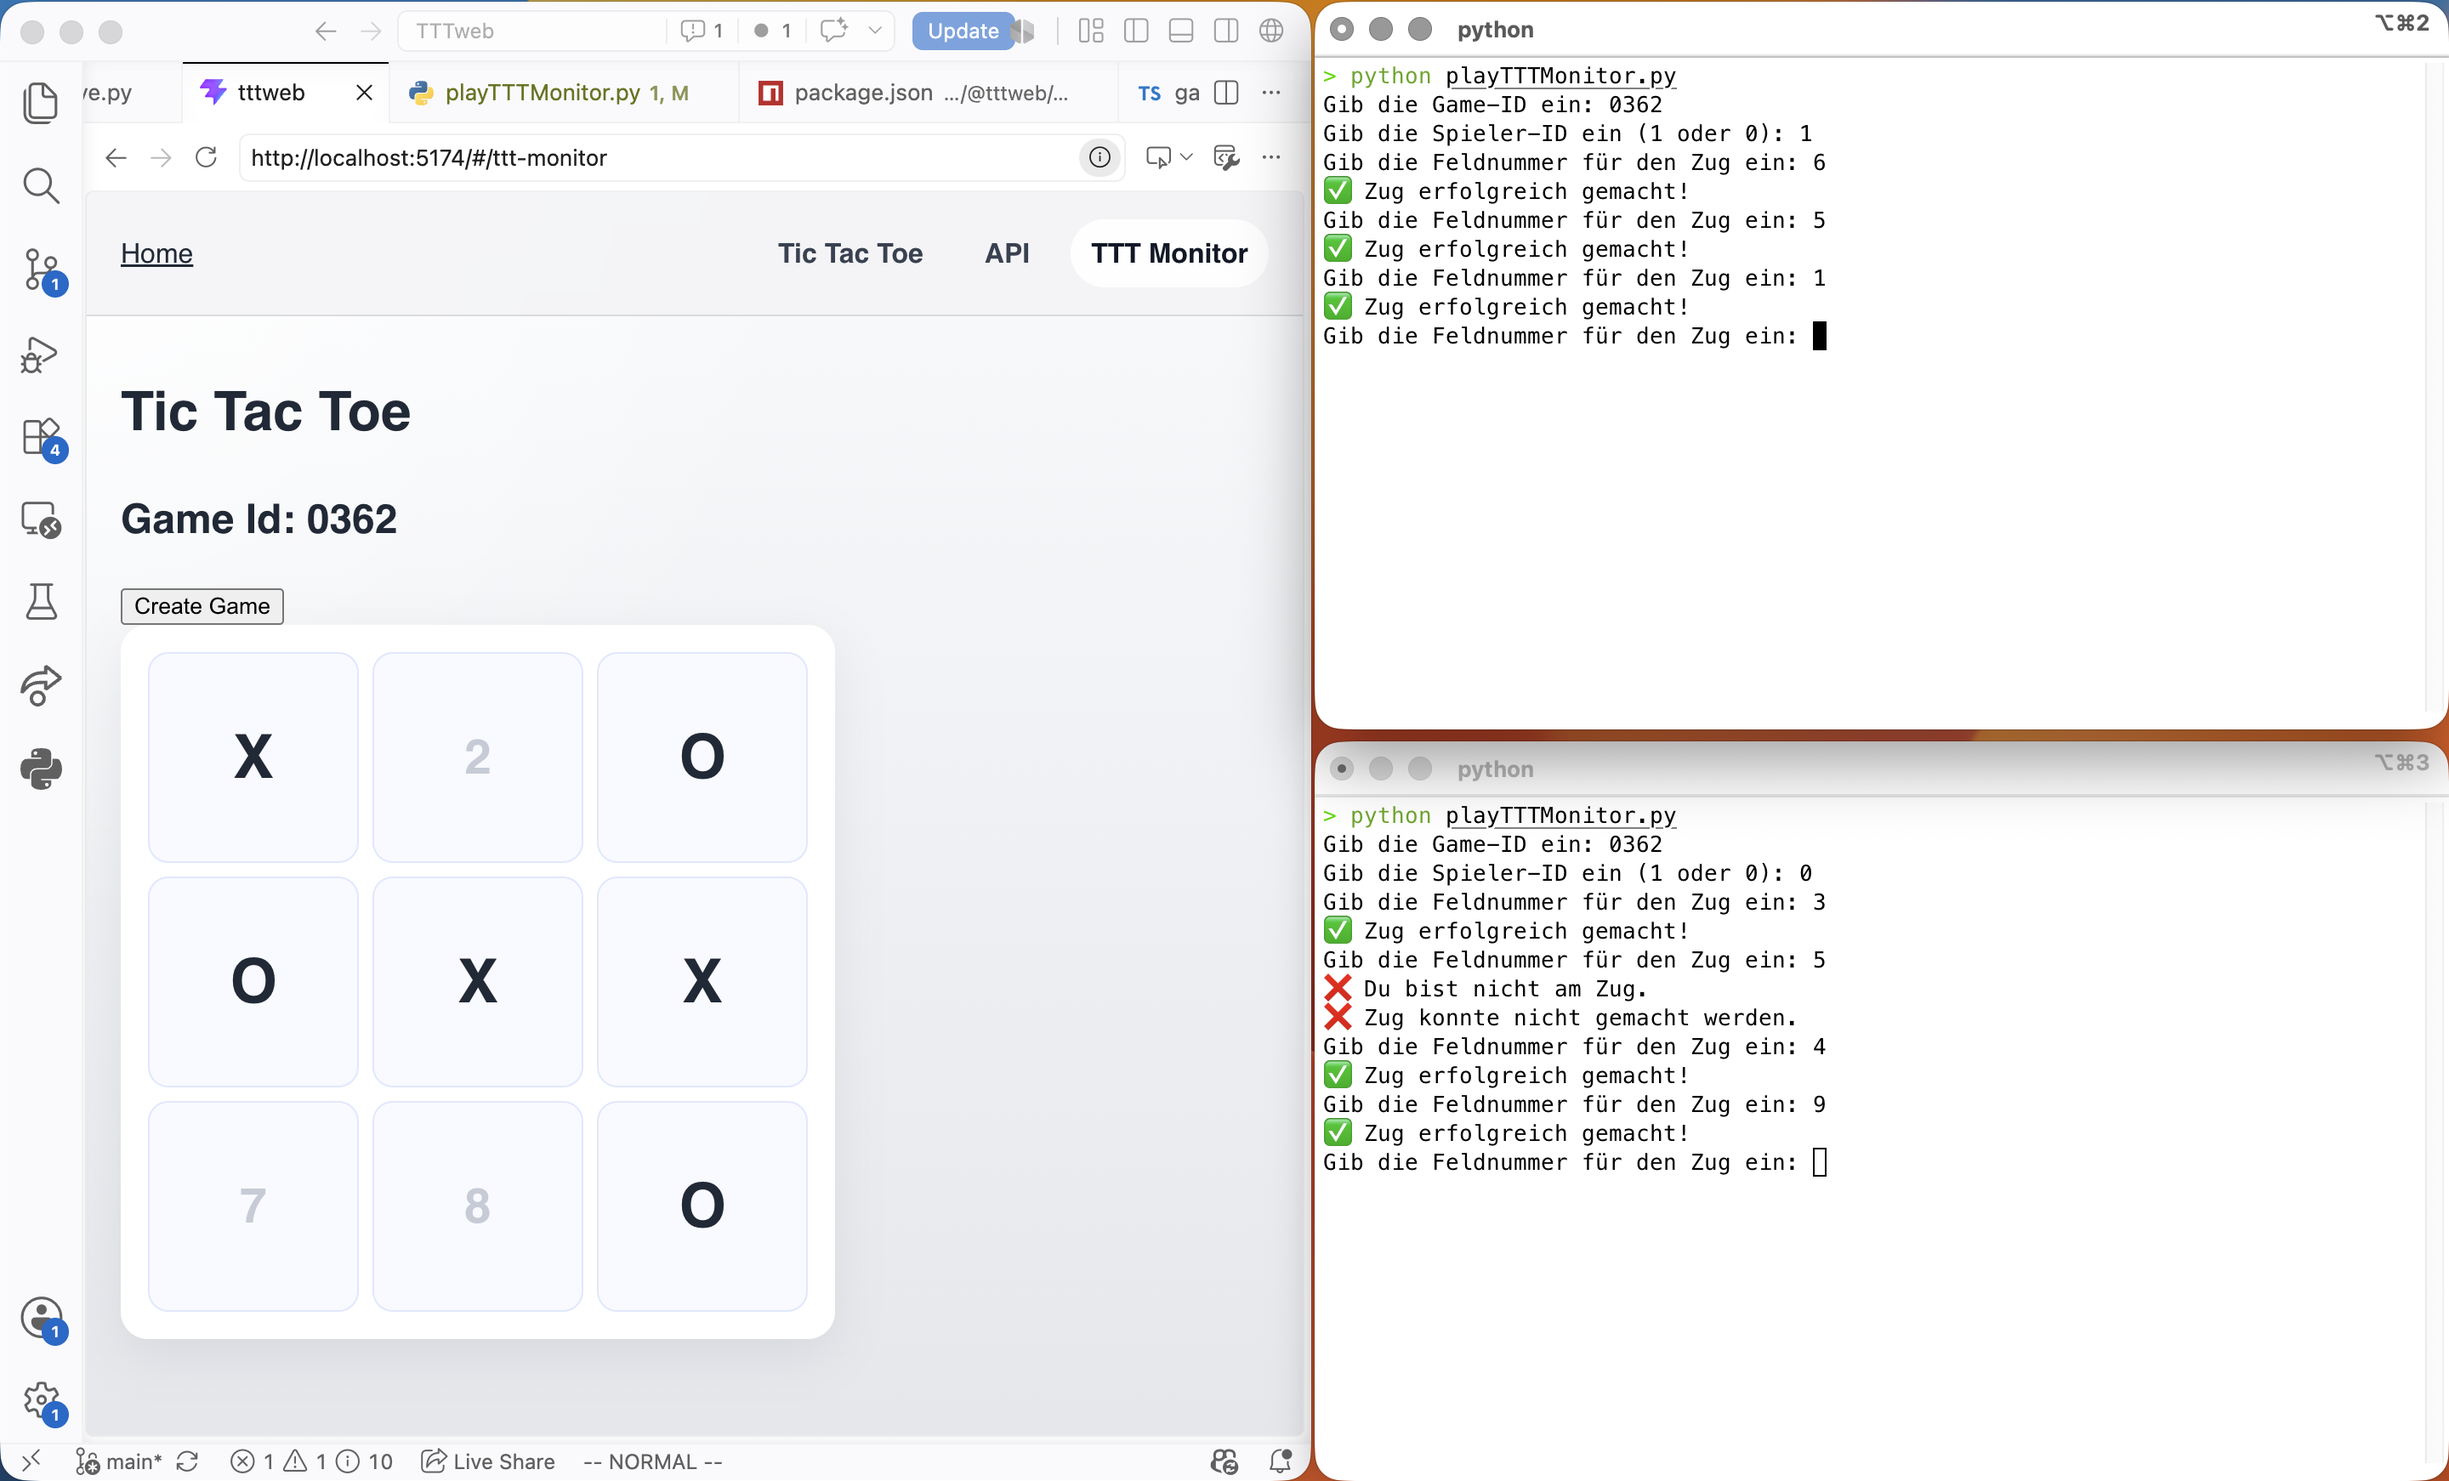
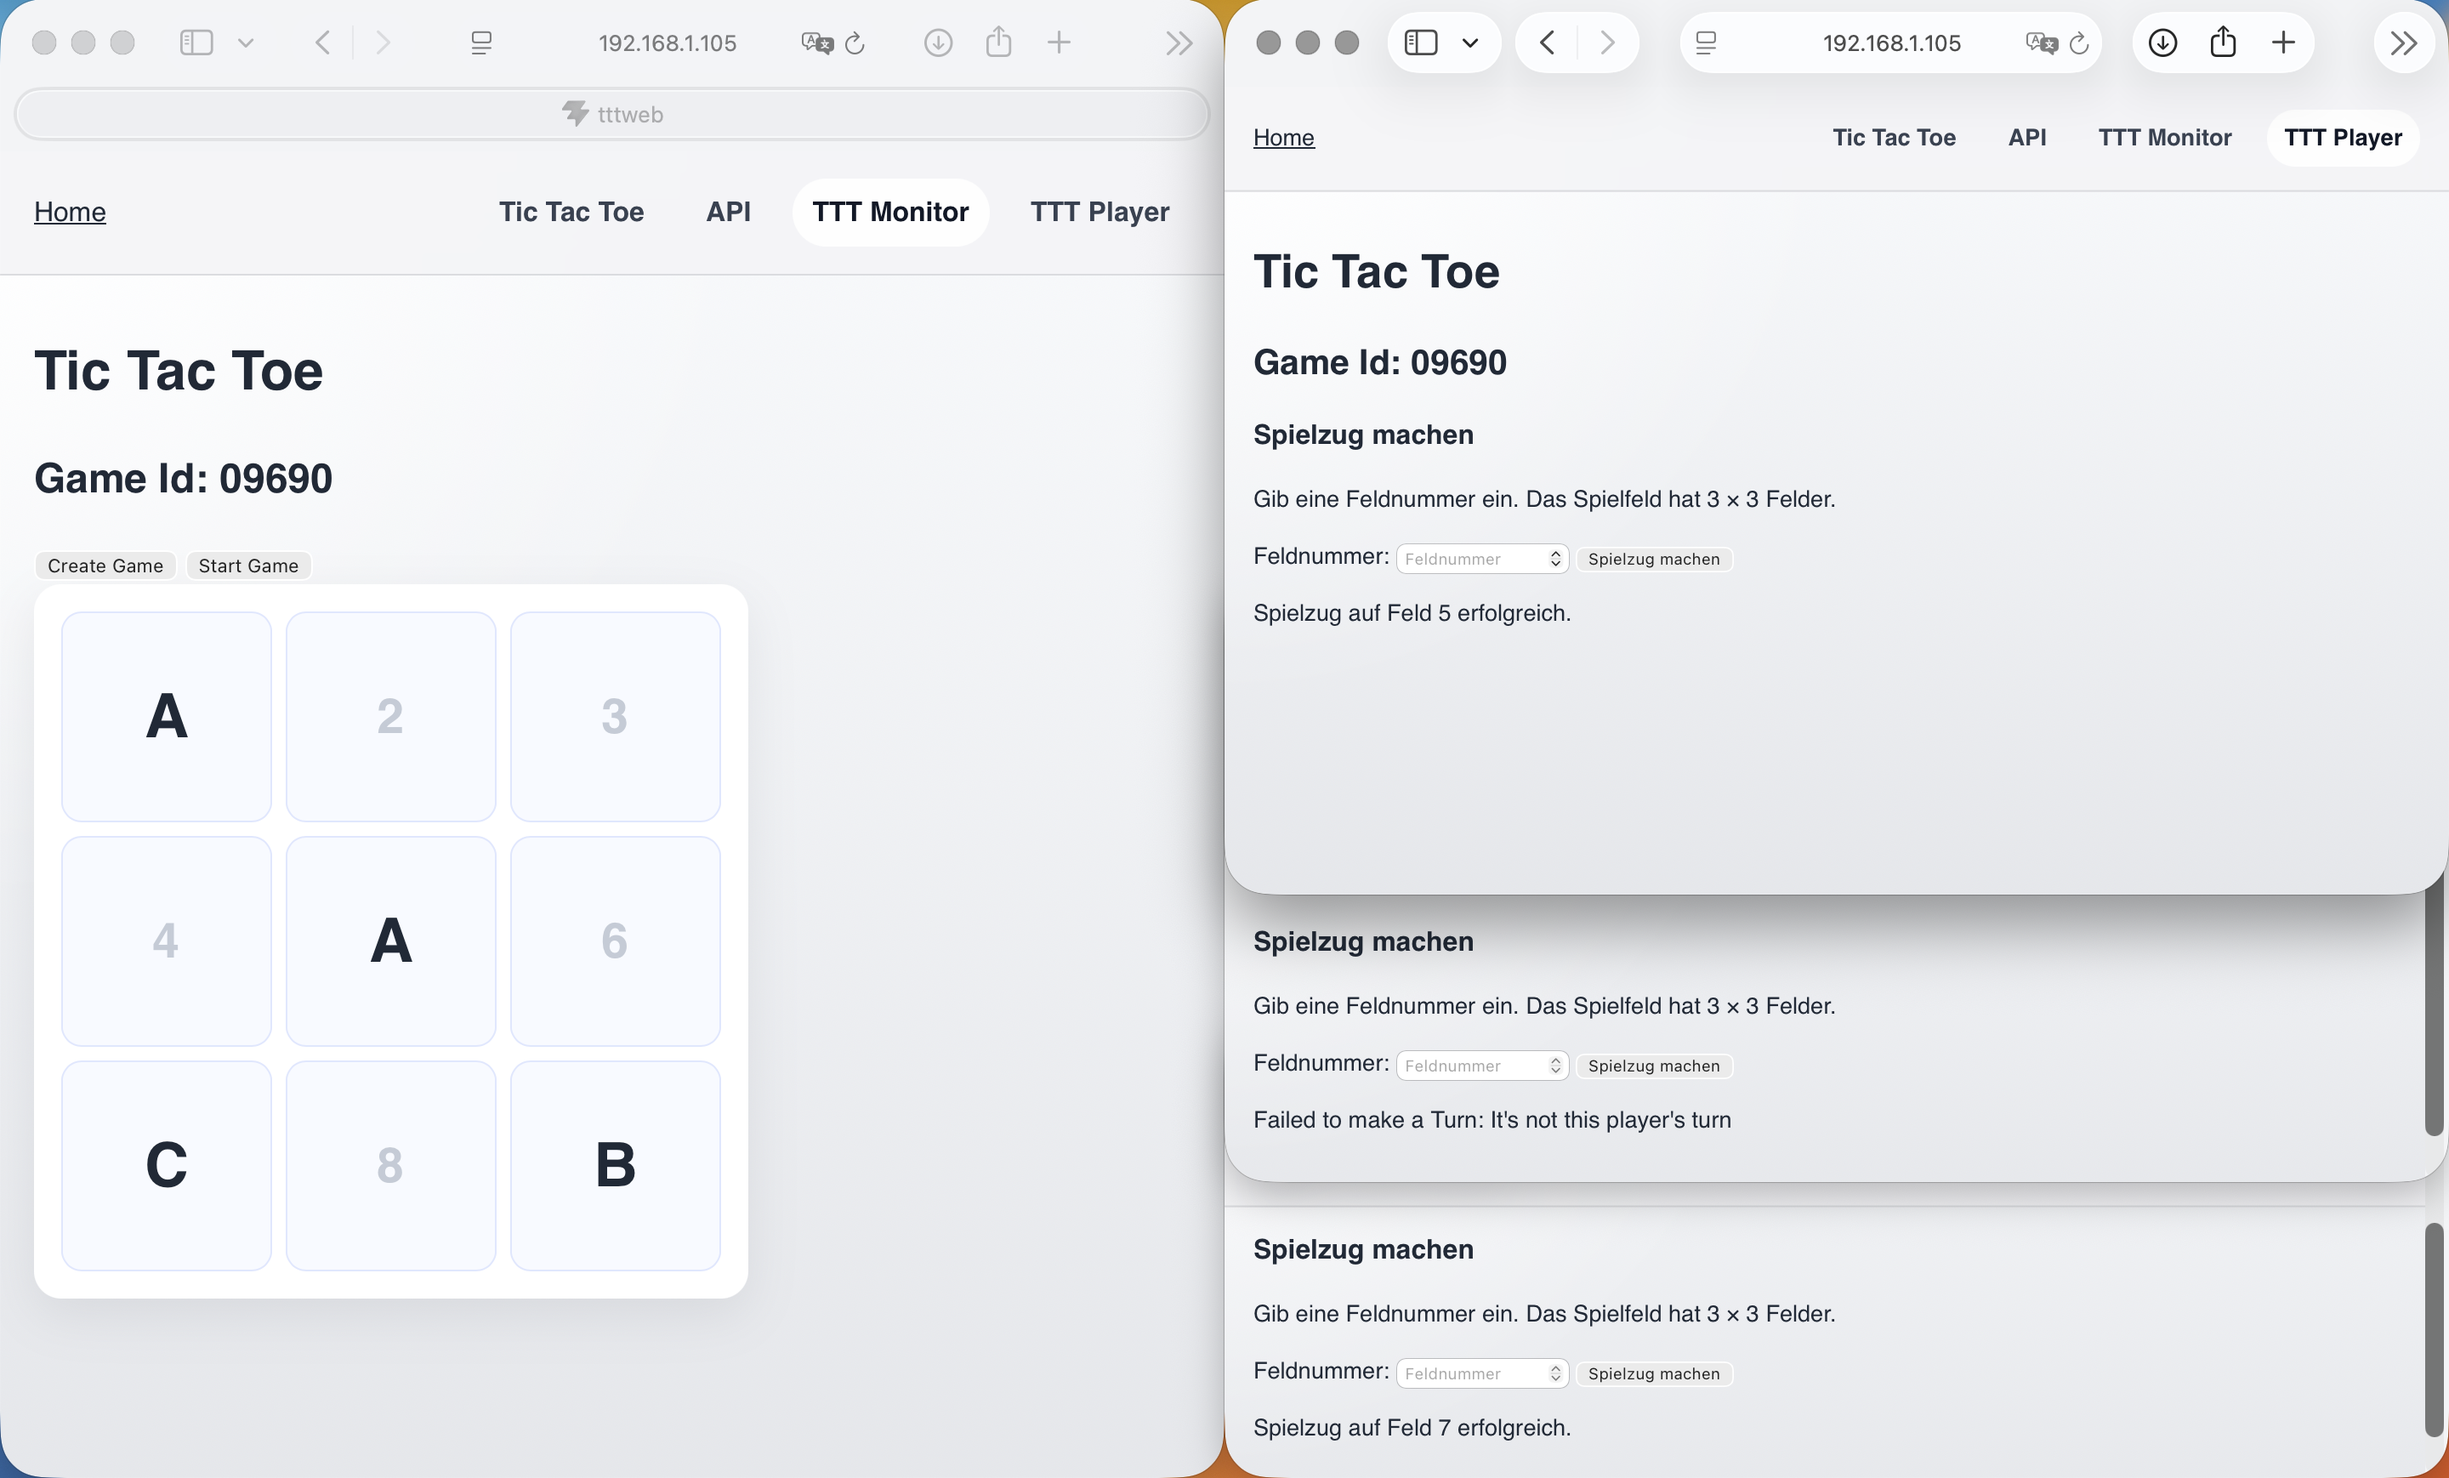
docs: update readme

diff --git a/readme.md b/readme.md
@@ -31,6 +31,10 @@ Ein Beispiel für den Ablauf des TTT Monitors:
 
 ![TTT Monitor](readme_data/TTTMonitor.png)
 
+### TTT Player
+
+Der TTT Player ist eine eigene Seite, mit der ein Spieler einem bereits laufenden TTT-Monitor-Spiel beitreten kann. Dazu wird die Game-ID eingegeben, anschließend erhält der Spieler ein eigenes Token und kann seine Züge über die API an das Backend senden. Die Authentifizierung erfolgt über diesen Token, sodass jeder Spieler nur für sich selbst spielen kann und nicht als anderer Teilnehmer agieren kann. So kann ein Spieler an einem auf dem Server verwalteten Spiel teilnehmen, ohne selbst das Spiel lokal zu verwalten.
+
 ## Architektur
 
 ```text
@@ -82,4 +86,10 @@ npm run dev:frontend
 npm run dev:backend
 ```
 
-Das Backend läuft standardmäßig auf Port `3000`. Das Frontend wird von Vite bereitgestellt und zeigt die lokale Entwicklungs-URL im Terminal an.
+Wichtig: In `frontend/src/config.ts` muss die Backend-Adresse in `SERVER_HOST` eingetragen werden, damit die API- und WebSocket-Anfragen an die richtige IP/URL gehen. Beispiel:
+
+```ts
+export const SERVER_HOST = "192.168.1.109:3000";
+```
+
+Wenn das Backend lokal läuft, kann auch `localhost:3000` verwendet werden. Das Backend läuft standardmäßig auf Port `3000`. Das Frontend wird von Vite bereitgestellt und zeigt die lokale Entwicklungs-URL im Terminal an.
